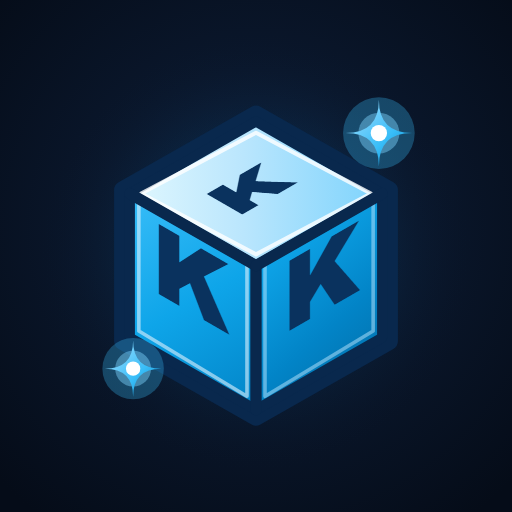
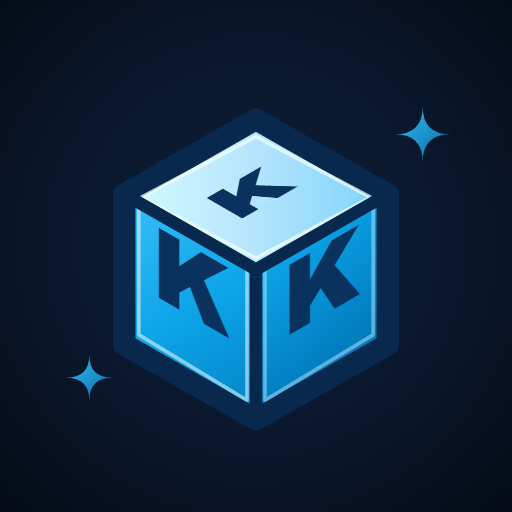
fix: restore original sparks, purge PWA caches and enable automatic update check on mobile

diff --git a/src/components/common/KonanCube.tsx b/src/components/common/KonanCube.tsx
@@ -54,12 +54,10 @@ export const KonanCube: React.FC<KonanCubeProps> = ({
             <stop offset="100%" stopColor="#0369a1" />
           </linearGradient>
 
-          {/* Dégradé Étoile Sparkle Cyan Lumineux */}
+          {/* Dégradé Étoile Sparkle */}
           <linearGradient id="konanStarGrad" x1="0" y1="0" x2="1" y2="1">
-            <stop offset="0%" stopColor="#ffffff" />
-            <stop offset="30%" stopColor="#7dd3fc" />
-            <stop offset="70%" stopColor="#38bdf8" />
-            <stop offset="100%" stopColor="#0284c7" />
+            <stop offset="0%" stopColor="#38bdf8" />
+            <stop offset="100%" stopColor="#0369a1" />
           </linearGradient>
         </defs>
 
@@ -191,23 +189,19 @@ export const KonanCube: React.FC<KonanCubeProps> = ({
           {showStars && (
             <>
               {/* Étoile en haut à droite */}
-              <g transform="translate(152, 48) scale(0.95)">
-                <circle cx="0" cy="0" r="10" fill="#38bdf8" opacity="0.35" />
+              <g transform="translate(174, 46) scale(0.95)">
                 <path
                   d="M 0 -13 Q 0 0 13 0 Q 0 0 0 13 Q 0 0 -13 0 Q 0 0 0 -13 Z"
                   fill="url(#konanStarGrad)"
                 />
-                <circle cx="0" cy="0" r="2.5" fill="#ffffff" />
               </g>
 
               {/* Étoile en bas à gauche */}
-              <g transform="translate(48, 146) scale(0.85)">
-                <circle cx="0" cy="0" r="9" fill="#38bdf8" opacity="0.35" />
+              <g transform="translate(26, 154) scale(0.85)">
                 <path
                   d="M 0 -12 Q 0 0 12 0 Q 0 0 0 12 Q 0 0 -12 0 Q 0 0 0 -12 Z"
                   fill="url(#konanStarGrad)"
                 />
-                <circle cx="0" cy="0" r="2.2" fill="#ffffff" />
               </g>
             </>
           )}

diff --git a/src/main.tsx b/src/main.tsx
@@ -88,11 +88,40 @@ createRoot(document.getElementById('root')!).render(
   </StrictMode>,
 );
 
-// Enregistrement du Service Worker Firebase Cloud Messaging & PWA
+// Enregistrement & mise à jour active du Service Worker pour PWA & Mobile
 if (typeof window !== 'undefined' && 'serviceWorker' in navigator) {
   window.addEventListener('load', () => {
-    navigator.serviceWorker.register('/firebase-messaging-sw.js', { scope: '/' }).catch((err) => {
-      console.warn('[KONAN] Service Worker notice:', err);
-    });
+    navigator.serviceWorker
+      .register('/firebase-messaging-sw.js', { scope: '/' })
+      .then((registration) => {
+        // Forcer la vérification immédiate des mises à jour dès l'ouverture sur smartphone
+        registration.update().catch(() => {});
+
+        // Détecter si une nouvelle version a été installée
+        registration.addEventListener('updatefound', () => {
+          const installingWorker = registration.installing;
+          if (installingWorker) {
+            installingWorker.addEventListener('statechange', () => {
+              if (installingWorker.state === 'installed' && navigator.serviceWorker.controller) {
+                console.log('[KONAN] Nouvelle version détectée, rechargement automatique...');
+                window.location.reload();
+              }
+            });
+          }
+        });
+      })
+      .catch((err) => {
+        console.warn('[KONAN] Service Worker notice:', err);
+      });
+  });
+
+  // Recharger si un nouveau service worker prend le contrôle
+  let refreshing = false;
+  navigator.serviceWorker.addEventListener('controllerchange', () => {
+    if (!refreshing) {
+      refreshing = true;
+      window.location.reload();
+    }
   });
 }
+

diff --git a/public/firebase-messaging-sw.js b/public/firebase-messaging-sw.js
@@ -3,12 +3,24 @@
 importScripts('https://www.gstatic.com/firebasejs/10.13.2/firebase-app-compat.js');
 importScripts('https://www.gstatic.com/firebasejs/10.13.2/firebase-messaging-compat.js');
 
+// Version du Service Worker pour forcer la mise à jour sur smartphone et PWA installée
+const SW_VERSION = 'v-2026-10-23-02';
+
 self.addEventListener('install', () => {
   self.skipWaiting();
 });
 
 self.addEventListener('activate', (event) => {
-  event.waitUntil(self.clients.claim());
+  event.waitUntil(
+    caches.keys().then((cacheNames) => {
+      return Promise.all(
+        cacheNames.map((cacheName) => {
+          console.log('[KONAN SW] Nettoyage ancien cache:', cacheName);
+          return caches.delete(cacheName);
+        })
+      );
+    }).then(() => self.clients.claim())
+  );
 });
 
 // Configuration Firebase automatique du projet KONAN

diff --git a/src/App.tsx b/src/App.tsx
@@ -70,8 +70,7 @@ import { AcademicGoalSelectorModal } from './components/plus/AcademicGoalSelecto
 import { 
   checkAndDispatchStudyReminders, 
   getPhoneNotificationPermission, 
-  requestPhoneNotificationPermission,
-  sendSessionRescheduledNotification 
+  requestPhoneNotificationPermission
 } from './services/companionNotificationService';
 
 // Views
@@ -468,7 +467,7 @@ export function App() {
           return prev;
         }
 
-        const { updatedSessions, rescheduledCount, restoredCount, rescheduledSessions } = evaluateDailyCatchup(
+        const { updatedSessions, rescheduledCount, restoredCount } = evaluateDailyCatchup(
           baseSessions,
           cleanedSlots,
           prev.preferences,
